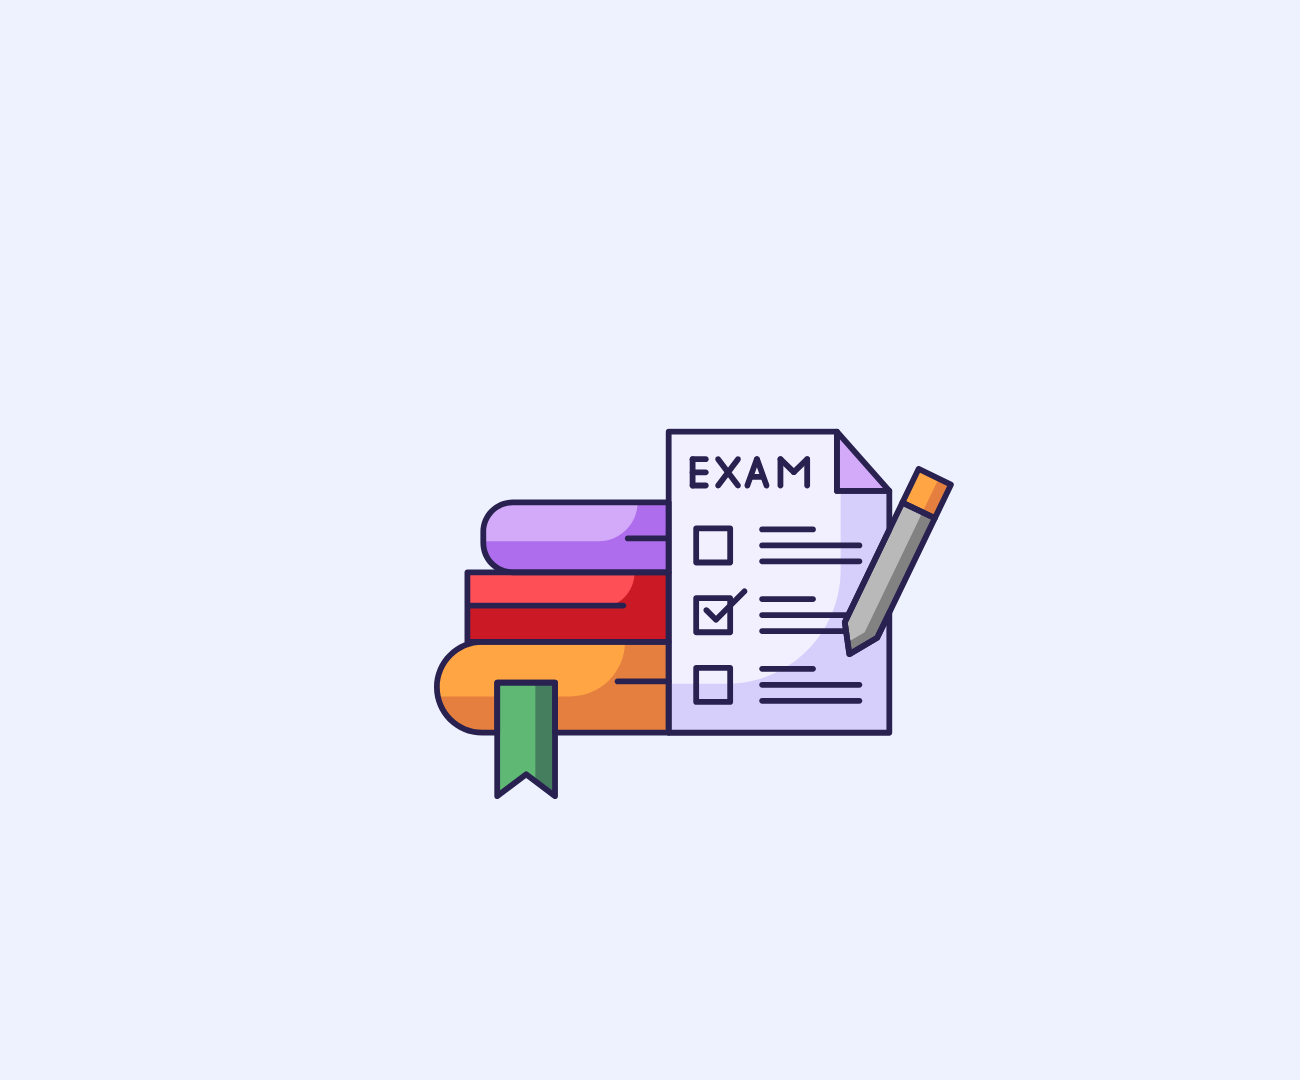
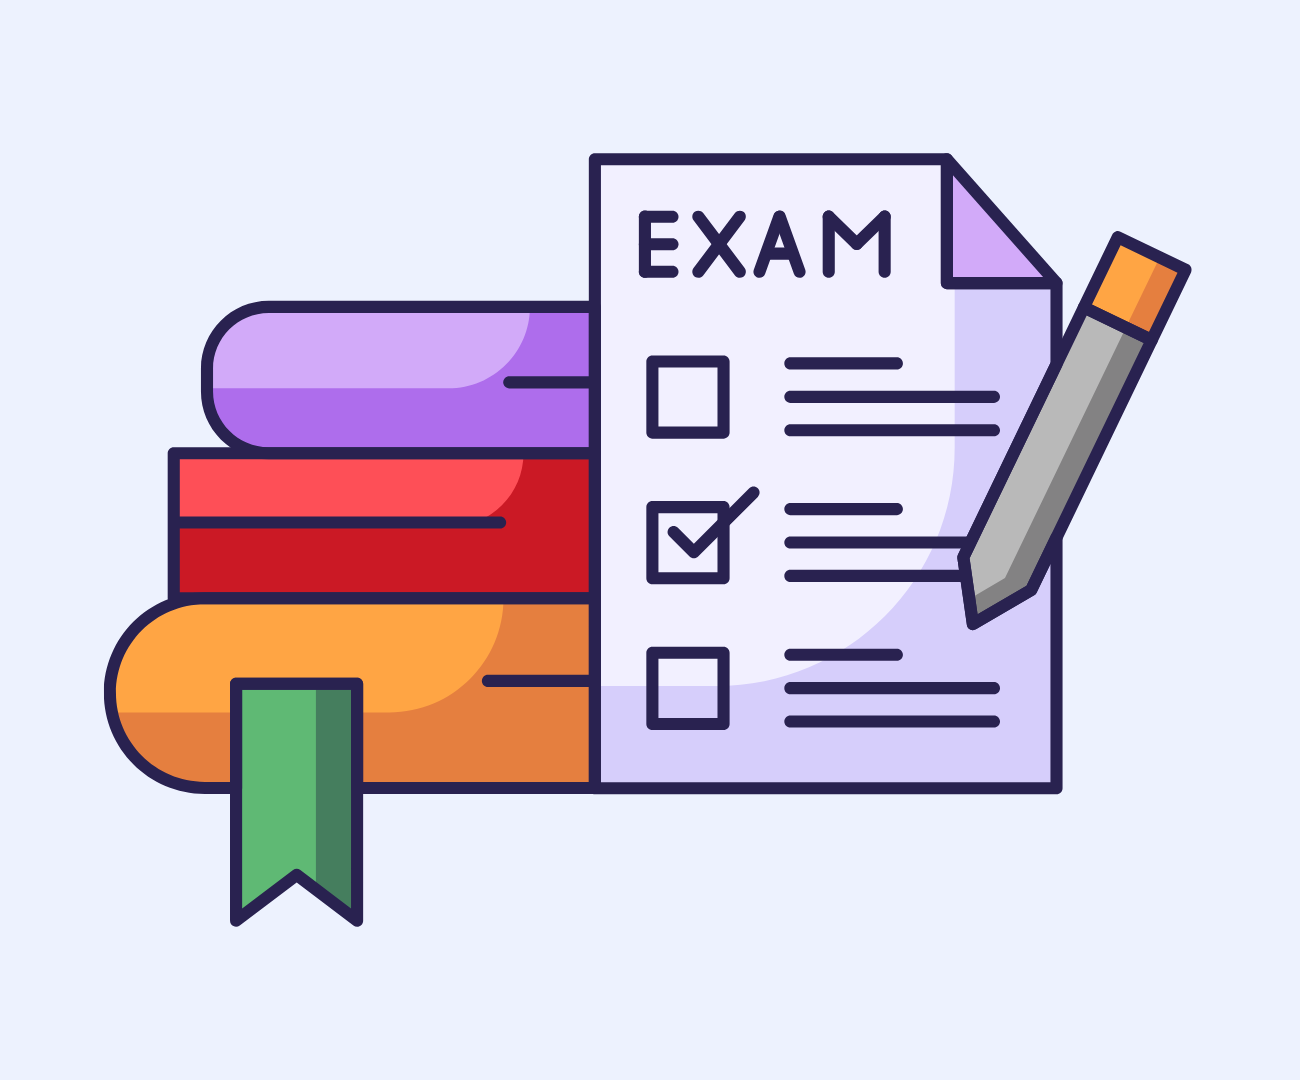
About us page

Changed region(s): [[0.0615, 0.1222, 0.9231, 0.8556]]

diff --git a/src/Pages/About.jsx b/src/Pages/About.jsx
@@ -1,11 +1,61 @@
-import React from 'react'
+import React from 'react';
+import { TypeAnimation } from 'react-type-animation';
+import AboutImage from '../assets/About.png';
+import Navbar from '../components/Navbar';
 
 function About() {
   return (
     <div>
-      About us
+        <Navbar />
+    <div className="bg-[#14213D] min-h-screen w-full px-6 md:px-28 py-20">
+
+      <div className="max-w-7xl mx-auto flex flex-col md:flex-row items-center justify-between gap-12 mt-10">
+        {/* Left Content */}
+        <div className="flex-1">
+          <h2 className="text-white text-5xl md:text-6xl font-extrabold leading-tight">
+            Let’s <span className="text-red-500">fix</span> what’s stopping you.
+          </h2>
+
+          <div className="text-2xl md:text-3xl font-bold text-[#FCA311] mt-6 h-[50px]">
+            <TypeAnimation
+              sequence={[
+                "Confusion → Clarity",
+                "Scrolling → Studying",
+                "Stress → Structure",
+                "Winging it → Winning it",
+                3000,
+                "",
+              ]}
+              wrapper="span"
+              speed={50}
+              repeat={Infinity}
+            />
+          </div>
+
+          <p className="mt-8 text-[#E5E5E5] text-lg leading-relaxed max-w-2xl">
+            Docengo isn’t just a platform. It’s the plan.
+            We’re redefining preparation for students who demand more — more depth, more clarity, more results.
+            <br />No fluff. No fear. Just fuel for your ambition.
+            NEET, JEE, or any goal — we’ve got your back with real mentors and resources that deliver.
+          </p>
+
+          <button className="mt-10 bg-[#FCA311] hover:bg-[#e08b00] text-[#14213D] font-semibold px-8 py-3 rounded-full shadow-lg transition duration-300">
+            Explore the Docengo Way 🚀
+          </button>
+        </div>
+
+        {/* Right Image with Rounded Corners */}
+        <div className="flex-1">
+          <img
+            src={AboutImage}
+            alt="About Docengo"
+            className="w-full max-w-md mx-auto rounded-3xl shadow-lg"
+          />
+        </div>
+      </div>
     </div>
-  )
+    </div>
+  );
 }
 
-export default About
+export default About;

diff --git a/src/components/Navbar.jsx b/src/components/Navbar.jsx
@@ -1,6 +1,7 @@
 import { useEffect, useRef, useState } from 'react';
 import { Link, useNavigate } from 'react-router-dom';
 import axios from 'axios';
+import logo from '../assets/logo.png'; // Adjust the path as necessary
 
 export default function Navbar() {
   const [user, setUser] = useState(null);
@@ -36,7 +37,13 @@ export default function Navbar() {
 
   return (
     <nav className="bg-[#14213D] text-white flex fixed top-0 items-center justify-between z-[999] px-[22px] py-3 shadow-md shadow-[#908e8e] w-full">
-      <Link to="/body"><div className="text-[#FCA311] text-xl font-bold ">Docengo</div></Link>
+    <Link to="/body">
+      <div className="flex items-center space-x-2 text-[#FCA311] text-xl font-bold">
+        <img src={logo} alt="Logo" className="w-[4rem]" />
+        <span>Docengo</span>
+      </div>
+    </Link>
+  
 
       {/* Nav Links (hidden on screen <= 1248px) */}
       <div className="hidden custom:hidden md:flex space-x-6">
